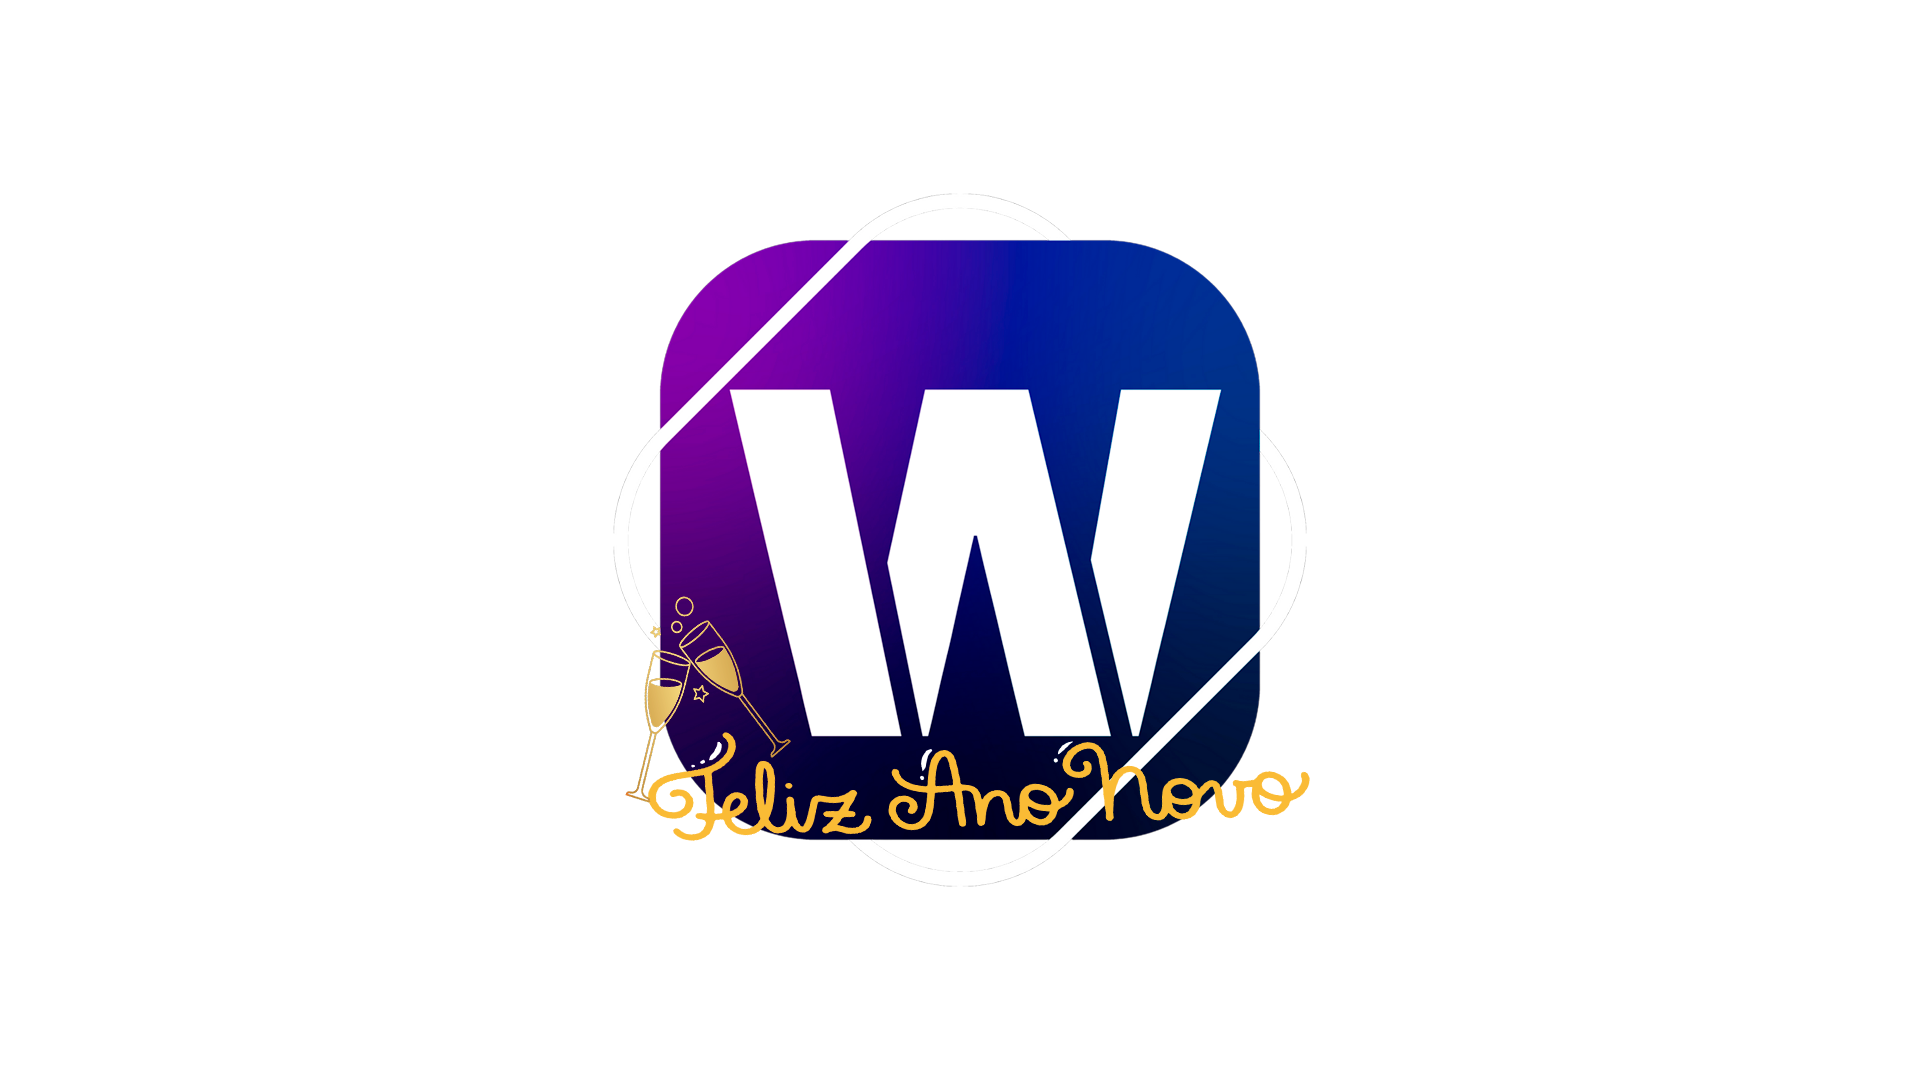
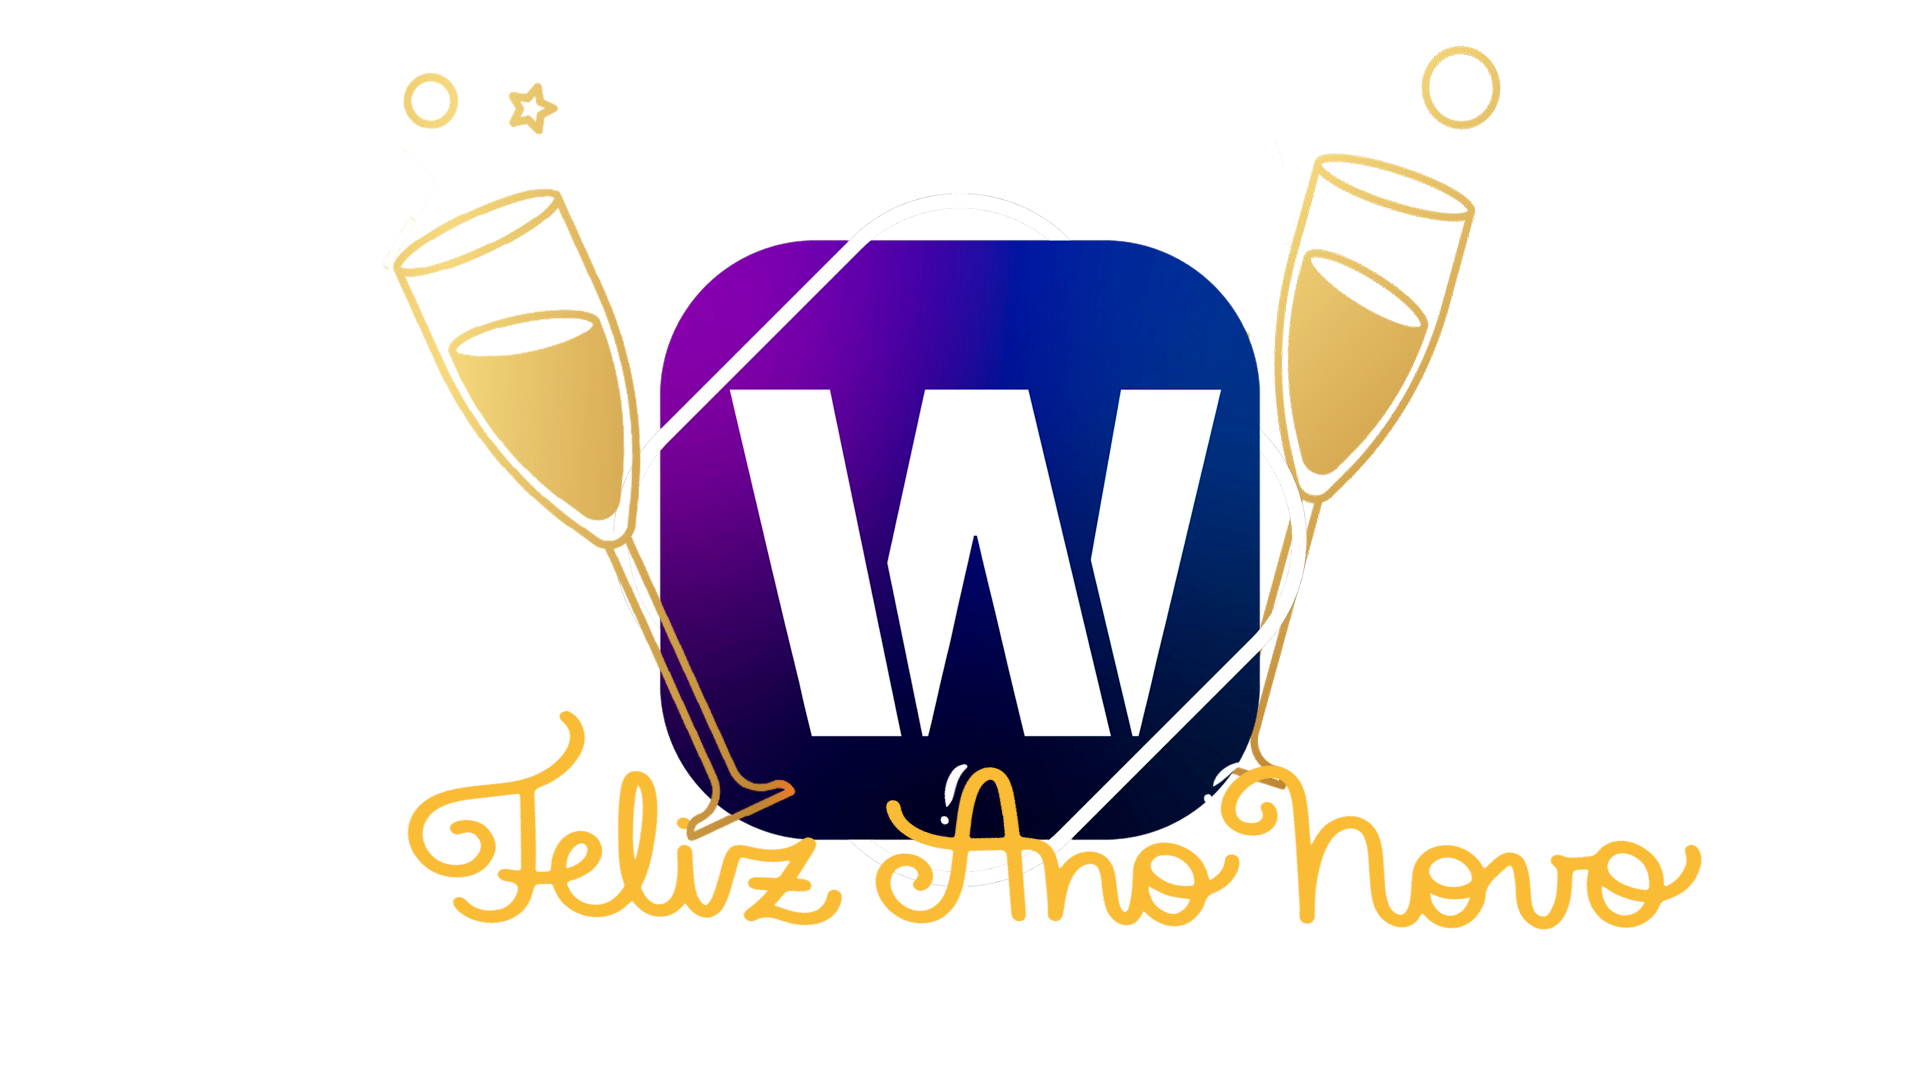
Alterado Icone

diff --git a/wiptelecom/src/components/Footer.tsx b/wiptelecom/src/components/Footer.tsx
@@ -1,4 +1,4 @@
-import icon from "../imgs/icon_natal.png";
+import icon from "../imgs/icon_anonovo.png";
 import { MdOutlinePhone } from "react-icons/md";
 import { IoPhonePortraitOutline } from "react-icons/io5";
 import { CiMail } from "react-icons/ci";
